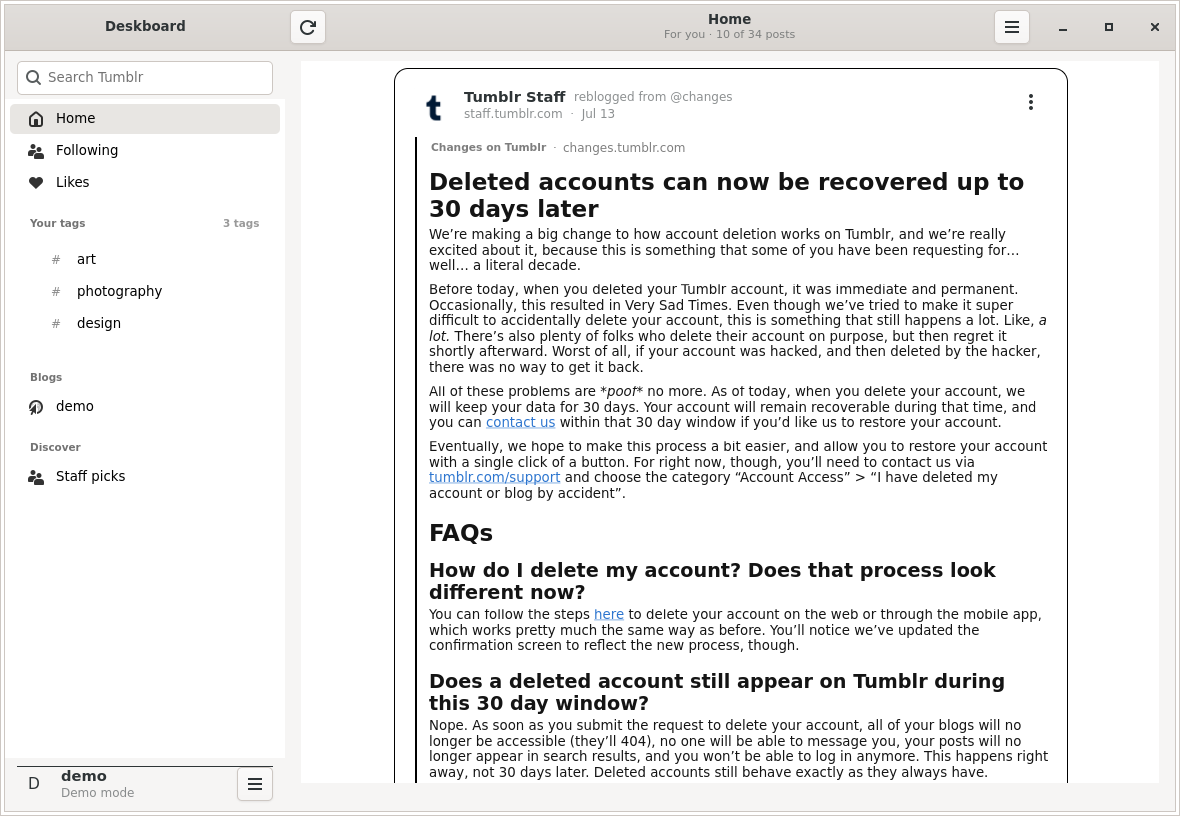
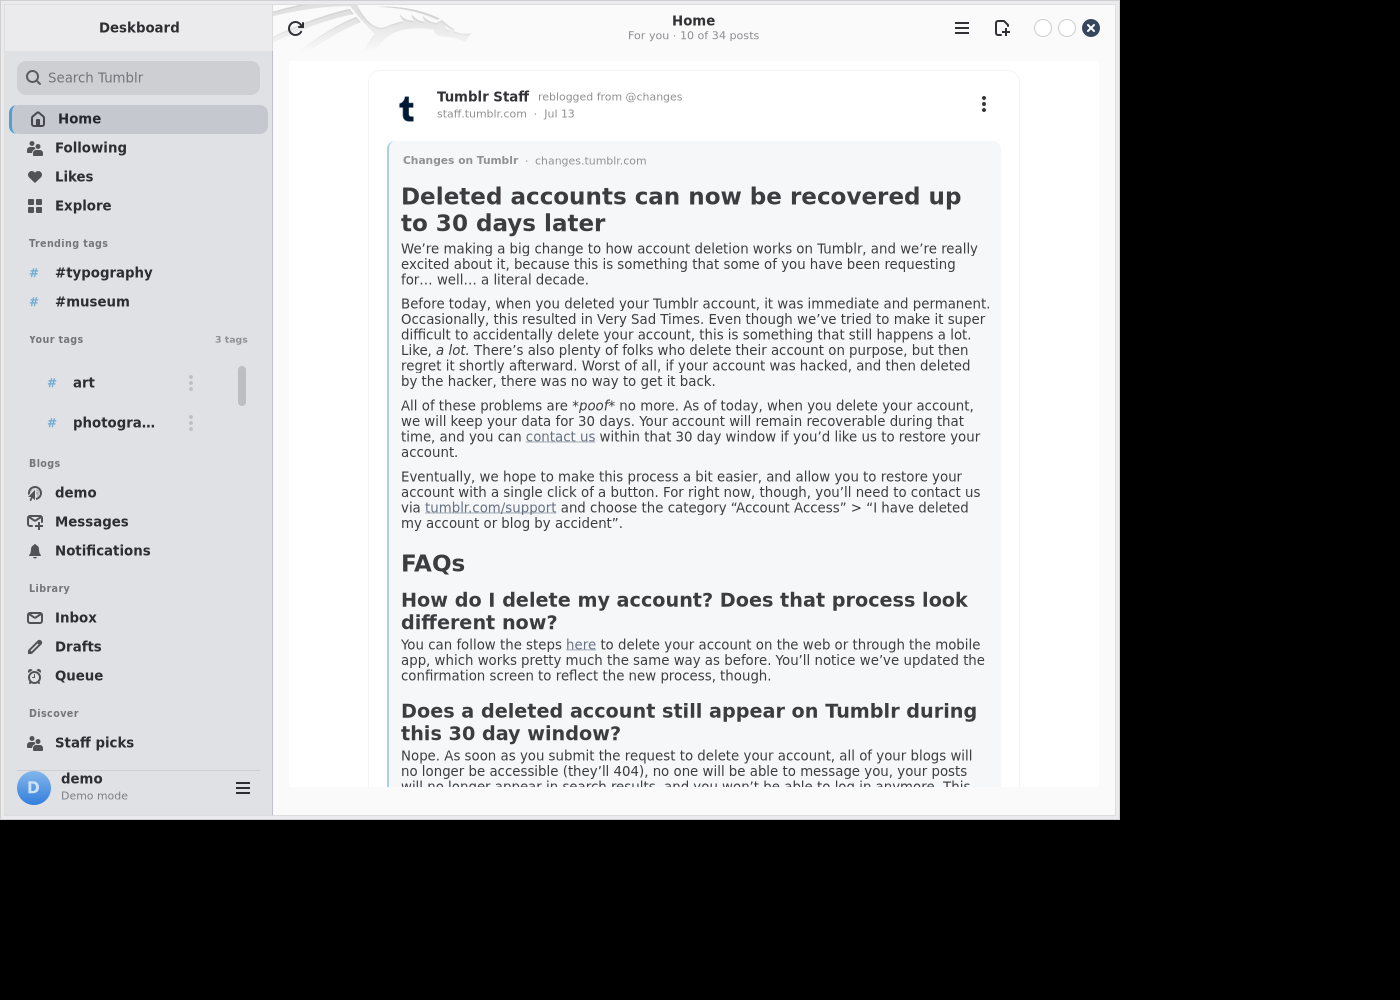
Launcher pins its install dir; --doctor detects stale installs
- wrapper cds into APP_DIR so a checkout in the caller's cwd can't shadow it
- install.sh writes BUILD (source path, commit, content digest)
- doctor compares running tree vs BUILD and vs the source checkout, printing
  the reinstall command; digest algorithms aligned
- README: new screenshots + tag Latest/Top + stale-install note

diff --git a/deskboard/doctor.py b/deskboard/doctor.py
@@ -19,6 +19,64 @@ def _bad(label: str, detail: str = "") -> None:
     print(f"  \033[31m✗\033[0m {label}" + (f"  {detail}" if detail else ""))
 
 
+
+def _tree_digest(root: Path) -> str:
+    """Content digest over the app's source files (py + css)."""
+    import hashlib
+
+    digest = hashlib.sha256()
+    files = sorted(
+        [p for p in root.rglob("*") if p.is_file() and p.suffix in (".py", ".css")
+         and "__pycache__" not in p.parts]
+    )
+    for path in files:
+        try:
+            digest.update(str(path.relative_to(root)).encode())
+            digest.update(path.read_bytes())
+        except OSError:
+            continue
+    return digest.hexdigest()
+
+
+def _check_install_freshness(problems: int) -> int:
+    """Warn when the running copy is older than the checkout it came from."""
+    import deskboard as package
+
+    running_root = Path(package.__file__).resolve().parent.parent  # .../deskboard -> root
+    build_file = running_root / "BUILD"
+    if not build_file.exists():
+        _ok("Build record", "running from a source checkout")
+        return problems
+    info = {}
+    try:
+        for line in build_file.read_text("utf-8").splitlines():
+            if "=" in line:
+                key, _, value = line.partition("=")
+                info[key.strip()] = value.strip()
+    except OSError:
+        return problems
+    source = Path(info.get("source", "")).expanduser()
+    installed_digest = info.get("digest", "")
+    running_digest = _tree_digest(running_root / "deskboard")
+    if installed_digest and running_digest != installed_digest:
+        _warn("Build record", "does not match the installed files (re-run scripts/install.sh)")
+        problems += 1
+    if not source.is_dir():
+        _ok("Build record", f"installed {info.get('installed', '?')} (source checkout not found)")
+        return problems
+    source_digest = _tree_digest(source / "deskboard")
+    if source_digest != running_digest:
+        _warn(
+            "Stale install",
+            f"the running copy differs from {source}\n"
+            "      fix: run ./scripts/install.sh  (then quit and relaunch Deskboard)",
+        )
+        problems += 1
+    else:
+        _ok("Build record", f"up to date with {source} (commit {info.get('commit', '?')})")
+    return problems
+
+
 def run_doctor() -> int:
     from . import config
 
@@ -125,6 +183,10 @@ def run_doctor() -> int:
         except TumblrError as exc:
             _bad("Dashboard", str(exc))
             problems += 1
+    print()
+
+    print("Build")
+    problems = _check_install_freshness(problems)
     print()
 
     print("Storage")

diff --git a/README.md b/README.md
@@ -38,11 +38,16 @@ browser, no JavaScript bundle and no telemetry.
   audio players.
 - Reblog trails with sensible collapsing ("N earlier reblogs"), avatars, tags,
   relative timestamps and note/like/reblog counts.
+- **Stale-install detection**: `--doctor` compares the running copy against the
+  checkout it was installed from and tells you to reinstall if they drift.
 - **Pipelined pagination**: Tumblr serves only ~4 posts per request at
   0.6–1.2 s each, so Deskboard keeps a couple of pages buffered ahead of the
   viewport instead of stalling at the bottom of the feed.
-- **Your tags** section in the sidebar, listing the tags you follow (like the
-  desktop site), each one opening its tag feed.
+- **Your tags** section in the sidebar listing *every* tag you follow (paged to
+  the server's count, scrollable), each with Open Latest / Open Top.
+- **Tag pages with a Latest | Top switch** — the toggle sends the same request
+  the website does (`/v2/hubs/{tag}/timeline?sort=top`); where Tumblr returns an
+  identical set for both, Top additionally orders by note count.
 - Empty/error states and retry everywhere — every network failure becomes an
   inline message, never a traceback in the window.
 - Like and reblog actions with optimistic UI and rollback when Tumblr refuses.
@@ -59,7 +64,7 @@ browser, no JavaScript bundle and no telemetry.
 Captured from the offline demo (`deskboard --demo`) — real widgets, real
 typography, bundled public sample posts.
 
-| Home, light | Following, dark |
+| Home, light | Post, dark |
 | --- | --- |
 | ![Deskboard's Home feed: sidebar with Home, Following, Likes, Your tags, Blogs and Discover, and a post with headings, lists and links](assets/screenshot-home.png) | ![Deskboard in dark mode showing a reblog trail, tags and a photo post](assets/screenshot-post.png) |
 
